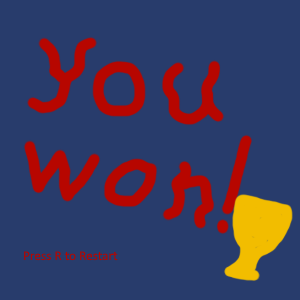
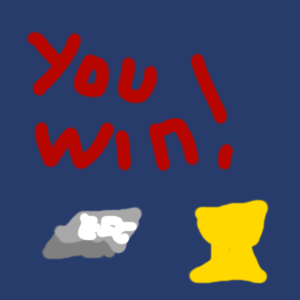
Feat: Level Progression Upgrade

Changed region(s): [[0.06, 0.09, 0.99, 0.96]]

diff --git a/src/States/Scripts.h b/src/States/Scripts.h
@@ -36,6 +36,7 @@ public:
 	//Win and loss states
 	static bool gameover;
 	bool dead = false;
+	bool grail = false;
 
 	//UI elements send input to here, possibly refactor so everything comes here
 	static std::stack<std::string> actions_pending;
@@ -43,7 +44,6 @@ public:
 
 	//Screens
 	Screen death_screen;
-	Screen win_screen;
 	Screen control_screen;
 	Screen default_screen;
 
@@ -55,7 +55,6 @@ public:
 
 	Scripts() :
 		death_screen("death_screen"),
-		win_screen("win_screen"),
 		control_screen("controls_screen"),
 		default_screen("default_screen")
 	{
@@ -64,11 +63,14 @@ public:
 		states.push_back(new EditorState());
 		states.push_back(new EditorMenuState());
 		states.push_back(new SaveMenuState());
-		states.push_back(new WinState());
 
-		quests.push_back(new Quest(new GameState("Dungeon"), { "Button" }));
-		quests.push_back(new Quest(new GameState("Arena"), { "Button" }));
-		quests.push_back(new Quest(new WinState(), { "Button" }));
+		quests.push_back(new Quest(new ScreenState("controls_screen"), { "Button" }));
+		quests.push_back(new Quest(new ScreenState("intro_screen"), { "Button" }));
+		quests.push_back(new Quest(new GameState("Arena"), { "Cleared" }));
+		quests.push_back(new Quest(new ScreenState("interlude_screen"), { "Button" }));
+		quests.push_back(new Quest(new GameState("Dungeon"), { "ItemAquired" }));
+		quests.push_back(new Quest(new ScreenState("win_screen"), { "Button" }));
+
 
 		state = states[0];
 	}
@@ -78,24 +80,16 @@ public:
 	//This needs to be specific to each level
 	bool levelCleared()
 	{
-		std::cout << "woah";
 		return (sf::Keyboard::isKeyPressed(sf::Keyboard::G));
-	}
-
-	void win()
-	{
-		gameover = true;
-		state->UI_elements.push(&win_screen);
 	}
 
 	void update()
 	{
-		if (quests[quest_num]->isComplete())
+		if (quests[quest_num]->isComplete(state->enemies, grail))
 		{
 			quest_num++;
 			if ((uint)quest_num == quests.size())
 			{
-				std::cout << "complete? Then error!";
 				state = states[0];
 				quest_num = 0;
 				return;
@@ -107,14 +101,10 @@ public:
 		{
 			SaveManager::completeLevel();
 			std::cout << SaveManager::level_index;
-			if (SaveManager::isWin())
-			{
-				actions_pending.push("Win");
-			}
-			else
-			{
-				states[1]->loadLevel(SaveManager::levels[SaveManager::level_index]);
-			}
+
+
+			states[1]->loadLevel(SaveManager::levels[SaveManager::level_index]);
+
 		}
 
 		while (!tweaks_pending.empty())
@@ -148,15 +138,15 @@ public:
 			{
 				window->close();
 			}
-			else if (action_pending == "Win")
-			{
-				win();
-			}
 			else if (action_pending == "Pause")
 			{
 				//Maybe I should be adding the pause menu in here?
 			}
-			else if (action_pending == "Continue")
+			else if (action_pending == "Grail")
+			{
+				grail = true;
+			}
+			else if (action_pending == "Play")
 			{
 				//Make state gamestate
 				//Later I will sort out the thing so new game and continue are different
@@ -171,10 +161,6 @@ public:
 			else if (action_pending == "Load Game")
 			{
 				state = states[3];
-			}
-			else if (action_pending == "Level Editor")
-			{
-				state = states[4];
 			}
 			else if (action_pending == "Pause Menu")
 			{

diff --git a/src/Quest.h b/src/Quest.h
@@ -8,14 +8,16 @@ public:
 	State* state;
 
 	//Victory Conditions
-	bool isCleared()
+	bool isCleared(EntityVec &enemies)
 	{
-		return false;
+		return enemies.empty();
 	};
-	bool isItemAquired()
+
+	bool isItemAquired(bool grail)
 	{
-		return false;
+		return grail;
 	};
+
 	bool isButton()
 	{
 		static bool primed = false;
@@ -44,19 +46,19 @@ public:
 		state(state),
 		victory_conditions(victory_conditions) {};
 
-	bool isComplete()
+	bool isComplete(EntityVec &enemies, bool grail)
 	{
 		bool complete = true;
 		for (auto condition : victory_conditions)
 		{
 			if (condition == "Cleared")
 			{
-				if (!isCleared())
+				if (!isCleared(enemies))
 					complete = false;
 			}
 			if (condition == "ItemAquired")
 			{
-				if (!isItemAquired())
+				if (!isItemAquired(grail))
 					complete = false;
 			}
 			if (condition == "Button")

diff --git a/src/States/State.h b/src/States/State.h
@@ -121,10 +121,7 @@ public:
 		background(Screen("title_screen"))
 	{
 		start_menu = Menu();
-		start_menu.addOption("Continue");
-		start_menu.addOption("New Game");
-		start_menu.addOption("Load Game");
-		start_menu.addOption("Level Editor");
+		start_menu.addOption("Play");
 
 		//If any two options have the same label, they do the same thing
 		start_menu.addOption("Quit");
@@ -193,11 +190,11 @@ public:
 	Screen background;
 };
 
-class WinState : public State
+class ScreenState : public State
 {
 public:
-	WinState() :
-		background(Screen("win_screen")) {
+	ScreenState(std::string screen_name) :
+		background(Screen(screen_name)) {
 
 		};
 

diff --git a/src/player.cpp b/src/player.cpp
@@ -82,7 +82,7 @@ void Player::action(int mx, int my, int button, EntityVec& enemies)
 					else if (tile == 3)
 					{
 						std::cout << "fun!";
-						Scripts::actions_pending.push("Win");
+						Scripts::actions_pending.push("Grail");
 					}
 				}
 			}

diff --git a/src/EntityVec.cpp b/src/EntityVec.cpp
@@ -9,6 +9,10 @@ EntityVec::EntityVec() :
 	file("dumb")
 {}
 
+bool EntityVec::empty() {
+	return entities.empty();
+}
+
 void EntityVec::render(sf::RenderWindow* win)
 {
 	for (uint key = 0; key < entities.size(); key++)

diff --git a/src/EntityVec.h b/src/EntityVec.h
@@ -24,6 +24,7 @@ public:
 	void load();
 	void add(std::string type, int map_x, int map_y);
 	void add(Entity* spawn);
+	bool empty();
 	int getSize();
 	int getAtPosition(int x, int y);
 	void remove(int key);
